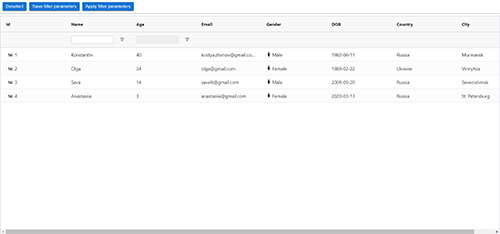
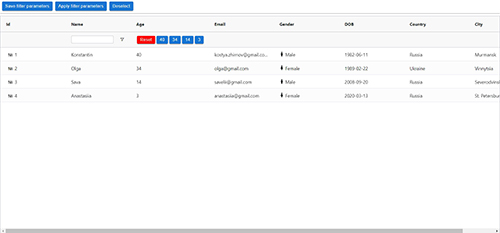
change images

diff --git a/src/pages/HomePage/cards.tsx b/src/pages/HomePage/cards.tsx
@@ -97,7 +97,7 @@ export const cards = [
         <img src={Grid} alt="AG Grid React" className={classes.image} />
         <p>
           React is an application using the <strong>AG Grid React library</strong>. It implements a
-          custom filter for the <strong>Age</strong> field.
+          custom filter and custom floating filter for the <strong>Age</strong> field.
         </p>
       </>
     ),
